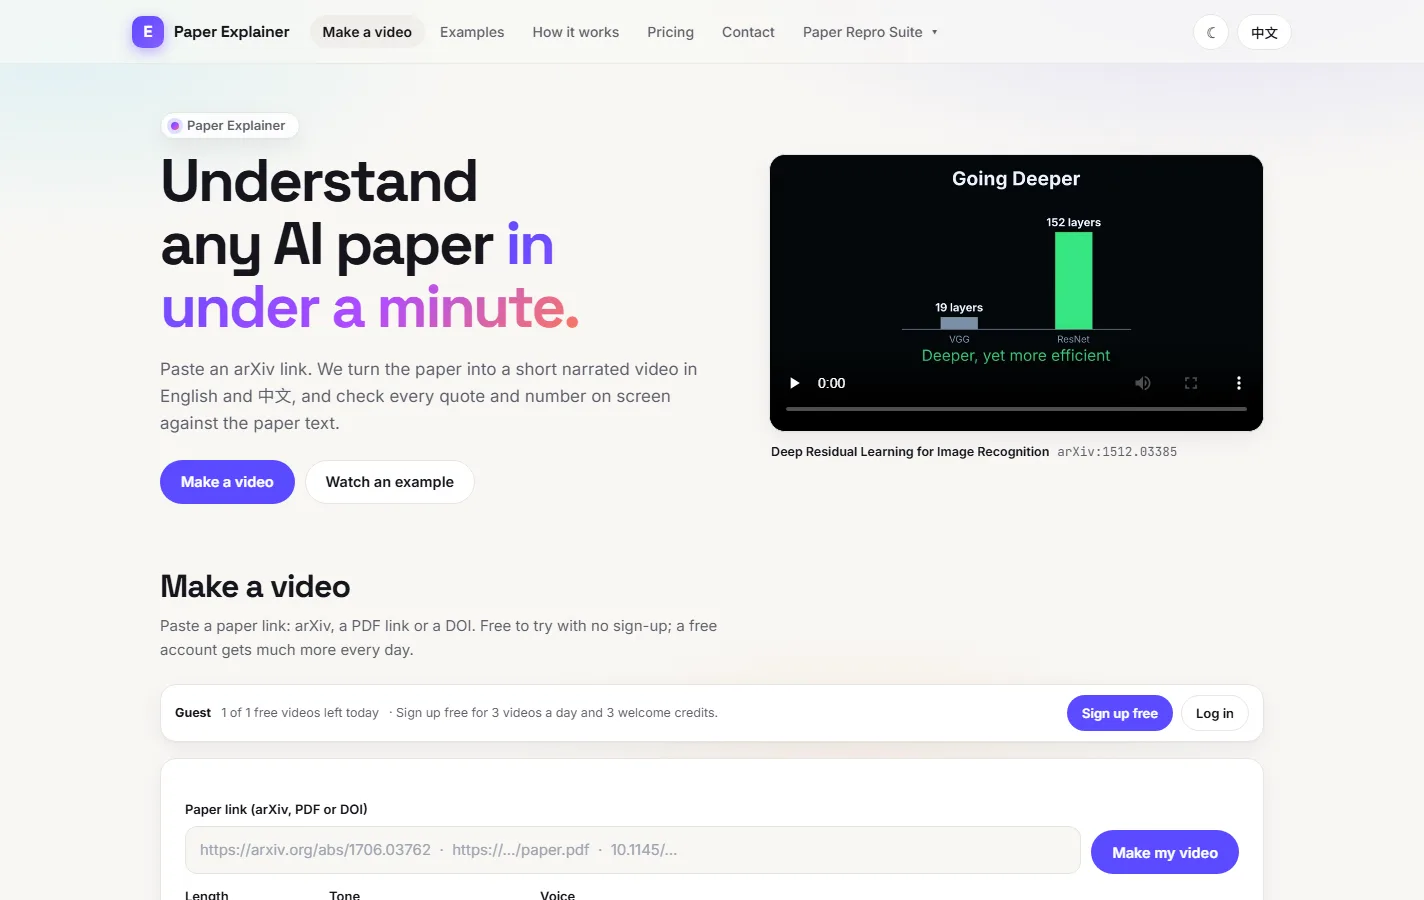
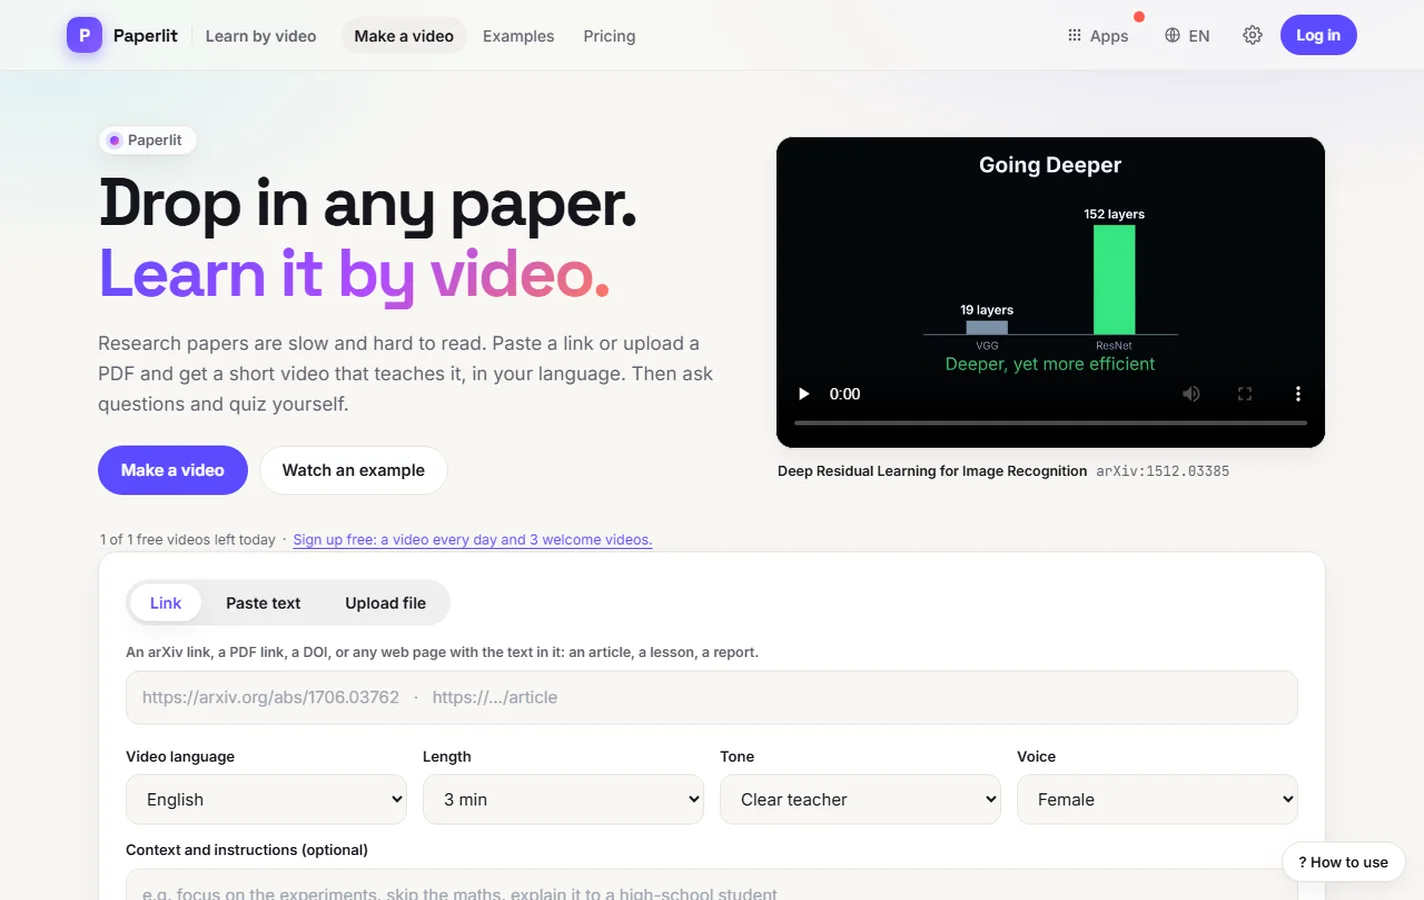
fix: vi/id leftovers, mobile quiz sheet and tap targets, footer, screenshots (#32)
* fix: Vietnamese and Indonesian for FAQ, footer and call to action; mobile tap targets, quiz sheet on phones, password fields, fresh hub screenshots

* feat: copyright line, release notes, merge main

---------

diff --git a/app/frontend/src/components/SuiteFooter.tsx b/app/frontend/src/components/SuiteFooter.tsx
@@ -1,22 +1,23 @@
 import { useState, type ReactNode } from 'react';
 import { Link } from 'react-router-dom';
-import { SUITE, EXPLAINER, type Lang } from './SuiteTopBar';
+import { PRODUCTS, type Lang } from './SuiteTopBar';
 import './suite-topbar.css';
 
 const T = {
-  en: { apps: 'Apps', learn: 'Learn', check: 'Check', about: 'About', tag: 'Read a paper, then check its numbers.', made: 'Made at Tsinghua SIGS, AIID capstone, Group 1.', note: 'Results are produced by AI agents. Check the quoted sources before you rely on them.', top: 'Back to top', faq: 'Frequently asked', open: 'opens in the same tab' },
-  zh: { apps: '应用', learn: '理解', check: '核验', about: '关于', tag: '读懂论文，再核验它的数字。', made: '清华深圳国际研究生院 AIID 课程项目，第 1 组。', note: '结果由 AI 智能体生成。引用前请核对原文出处。', top: '回到顶部', faq: '常见问题', open: '在新标签页打开' },
+  en: { apps: 'Paperlit', about: 'About', home: 'Home', tag: 'Turn papers into videos, read with citations, check the numbers.', note: 'Results are produced by AI agents. Check the quoted sources before you rely on them.', top: 'Back to top', faq: 'Frequently asked', open: 'opens in the same tab', terms: 'Terms', privacy: 'Privacy' },
+  zh: { apps: 'Paperlit', about: '关于', home: '首页', tag: '把论文变成视频，带引用地阅读，核验它的数字。', note: '结果由 AI 智能体生成。引用前请核对原文出处。', top: '回到顶部', faq: '常见问题', open: '在新标签页打开', terms: '条款', privacy: '隐私' },
+  vi: { apps: 'Paperlit', about: 'Giới thiệu', home: 'Trang chủ', tag: 'Biến bài báo thành video, đọc kèm trích dẫn, kiểm chứng số liệu.', note: 'Kết quả do tác tử AI tạo ra. Hãy kiểm tra các nguồn được trích dẫn trước khi dựa vào.', top: 'Lên đầu trang', faq: 'Câu hỏi thường gặp', open: 'mở trong cùng tab', terms: 'Điều khoản', privacy: 'Quyền riêng tư' },
+  id: { apps: 'Paperlit', about: 'Tentang', home: 'Beranda', tag: 'Ubah makalah menjadi video, baca dengan sitasi, periksa angkanya.', note: 'Hasil dibuat oleh agen AI. Periksa sumber yang dikutip sebelum Anda mengandalkannya.', top: 'Kembali ke atas', faq: 'Pertanyaan yang sering diajukan', open: 'dibuka di tab yang sama', terms: 'Ketentuan', privacy: 'Privasi' },
 } as const;
 
 /** Four-column footer shared by every app of the suite. */
 export function SuiteFooter({ lang, appId, note }: { lang: Lang; appId: string; note?: string }) {
   const t = T[lang];
-  const pick = (ids: string[]) => SUITE.filter((s) => ids.includes(s.id));
-  const col = (title: string, items: { label: string; href: string; id: string }[]) => (
+  const col = (title: string, items: { label: string; href: string; id: string; ids?: string[] }[]) => (
     <nav className="sft-col" aria-label={title}>
       <h2>{title}</h2>
       {items.map((s) => (
-        <a key={s.id} href={s.href} aria-current={s.id === appId ? 'page' : undefined} className={s.id === appId ? 'on' : ''}>
+        <a key={s.id} href={s.href} aria-current={s.ids?.includes(appId) ? 'page' : undefined} className={s.ids?.includes(appId) ? 'on' : ''}>
           {s.label}
           <span className="sr-only"> ({t.open})</span>
         </a>
@@ -31,12 +32,12 @@ export function SuiteFooter({ lang, appId, note }: { lang: Lang; appId: string; 
           <b>Paperlit</b>
           <p>{t.tag}</p>
         </div>
-        {col(t.learn, [{ id: 'explainer', label: 'Paper Explainer', href: EXPLAINER }, ...pick(['companion'])])}
-        {col(t.check, pick(['agent', 'lite', 'desk', 'indexboard']))}
-        {col(t.about, pick(['bench', 'hub']))}
+        {col(t.apps, PRODUCTS.map((pr) => ({ id: pr.id, ids: pr.ids, label: pr.n[lang] ?? pr.n.en, href: pr.href })))}
+        {col(t.about, [{ id: 'hub', label: t.home, href: 'https://bryan273.github.io/repro-suite/hub/' }, { id: 'terms', label: t.terms, href: 'https://bryan273.github.io/repro-suite/explainer/terms' }, { id: 'privacy', label: t.privacy, href: 'https://bryan273.github.io/repro-suite/explainer/privacy' }])}
       </div>
       <div className="sft-bar">
         <span>{note ?? t.note}</span>
+        <span className="sft-copy">&copy; {new Date().getFullYear()} Paperlit. {({ en: 'All rights reserved.', zh: '版权所有。', vi: 'Bảo lưu mọi quyền.', id: 'Hak cipta dilindungi.' } as Record<string, string>)[lang] ?? 'All rights reserved.'}</span>
         <a href="#top" onClick={(e) => { e.preventDefault(); window.scrollTo({ top: 0, behavior: 'smooth' }); }}>{t.top} ↑</a>
       </div>
     </footer>

diff --git a/app/frontend/src/pages/Index.tsx b/app/frontend/src/pages/Index.tsx
@@ -151,6 +151,12 @@ function read<T extends string>(key: string, allowed: readonly T[], fallback: T)
   }
 }
 
+const FT: Record<Lang, { explore: string; examples: string; pricing: string; about: string; terms: string; privacy: string; contact: string; rights: string }> = {
+  en: { explore: 'Explore', examples: 'Examples', pricing: 'Pricing', about: 'About', terms: 'Terms', privacy: 'Privacy', contact: 'Contact', rights: 'All rights reserved.' },
+  zh: { explore: '探索', examples: '示例', pricing: '价格', about: '关于', terms: '条款', privacy: '隐私', contact: '联系我们', rights: '版权所有。' },
+  vi: { explore: 'Khám phá', examples: 'Ví dụ', pricing: 'Bảng giá', about: 'Giới thiệu', terms: 'Điều khoản', privacy: 'Quyền riêng tư', contact: 'Liên hệ', rights: 'Bảo lưu mọi quyền.' },
+  id: { explore: 'Jelajahi', examples: 'Contoh', pricing: 'Harga', about: 'Tentang', terms: 'Ketentuan', privacy: 'Privasi', contact: 'Kontak', rights: 'Hak cipta dilindungi.' },
+};
 const HREF = [URLS.explainer, URLS.reading, URLS.repro];
 const SHOT_KEYS = [SHOTS.explainer, SHOTS.reading, SHOTS.repro];
 const NAMES = ['Explain', 'Read', 'Reproduce'];
@@ -273,15 +279,16 @@ export default function Index() {
             <p className="mt-1 max-w-[30ch]">{t.title}</p>
           </div>
           {[
-            { h: 'Apps', l: [['Learn by video', HREF[0]], ['Read and ask', HREF[1]], ['Check the result', HREF[2]]] },
-            { h: 'Explore', l: [['Examples', `${HREF[0]}#examples`], ['Pricing', `${HREF[0]}#pricing`], ['FAQ', '#faq']] },
-            { h: 'Paperlit', l: [['Terms', `${HREF[0]}/terms`], ['Privacy', `${HREF[0]}/privacy`], ['Contact', `${HREF[0]}#contact`]] },
+            { h: 'Paperlit', l: [[t.products[0].name, HREF[0]], [t.products[1].name, HREF[1]], [t.products[2].name, HREF[2]]] },
+            { h: FT[lang].explore, l: [[FT[lang].examples, `${HREF[0]}#examples`], [FT[lang].pricing, `${HREF[0]}#pricing`], ['FAQ', '#faq']] },
+            { h: FT[lang].about, l: [[FT[lang].terms, `${HREF[0]}/terms`], [FT[lang].privacy, `${HREF[0]}/privacy`], [FT[lang].contact, `${HREF[0]}#contact`]] },
           ].map((c) => (
             <nav key={c.h} className="grid content-start gap-2" aria-label={String(c.h)}>
               <p className="text-[12px] font-semibold uppercase tracking-wide" style={{ color: 'inherit' }}>{c.h}</p>
-              {c.l.map(([n, h]) => <a key={n} href={h} className="no-underline hover:underline" style={{ color: 'inherit' }}>{n}</a>)}
+              {c.l.map(([n, h]) => <a key={n} href={h} className="inline-block py-1.5 no-underline hover:underline" style={{ color: 'inherit' }}>{n}</a>)}
             </nav>
           ))}
+          <p className="sm:col-span-4 border-t border-[color:var(--line)] pt-5 text-[13px]" style={{ color: 'inherit' }}>&copy; {new Date().getFullYear()} Paperlit. {FT[lang].rights}</p>
         </footer>
       </main>
     </div>

diff --git a/app/frontend/src/pages/Console.tsx b/app/frontend/src/pages/Console.tsx
@@ -176,7 +176,9 @@ const css = `
 .cs-tally{position:relative;display:flex;justify-content:space-between;gap:10px;padding:7px 14px;font-size:13.5px}.cs-tally i{position:absolute;left:0;bottom:0;height:3px;background:var(--accent);opacity:.55}.cs-tally b{font-variant-numeric:tabular-nums}
 .cs-chart-h{display:flex;justify-content:space-between;align-items:center;gap:12px;flex-wrap:wrap;margin:28px 0 10px}.cs-filters{display:flex;gap:6px;flex-wrap:wrap;align-items:center}.cs-chip{border:1px solid var(--line);background:var(--card);color:var(--text);border-radius:999px;padding:4px 11px;font:600 12px inherit;cursor:pointer}.cs-chip.on{background:var(--accent);border-color:var(--accent);color:#fff}.cs-chip.chk{display:inline-flex;gap:5px;align-items:center}.cs-chip.chk input{margin:0}.cs-sep{width:1px;height:18px;background:var(--line);margin:0 4px}.cs-pager{display:flex;gap:6px;align-items:center;justify-content:flex-end;padding:8px 12px;font-size:12.5px}
 .cs-vers{display:grid}.cs-ver{border-top:1px solid var(--line);padding:10px 14px}.cs-ver:first-child{border-top:0}.cs-ver summary{display:flex;gap:12px;align-items:baseline;flex-wrap:wrap;cursor:pointer;font-size:14px}.cs-vtag{background:var(--accent);color:#fff;border-radius:999px;padding:1px 9px;font:700 12px inherit}.cs-rel{margin:10px 0 4px;padding-left:0;list-style:none;display:grid;gap:12px}.cs-rel-h{display:flex;gap:12px;align-items:baseline;font-size:13px}.cs-rel ul{margin:4px 0 0 18px;padding:0;font-size:13px;color:var(--muted,#666)}
+@media (pointer:coarse){.cs-btn.sm,.cs-chip,.cs-n{min-height:38px}}
 .cs-modal{position:fixed;inset:0;z-index:100;background:rgba(8,10,24,.6);display:grid;place-items:center;padding:16px}.cs-modal-box{width:min(920px,100%);max-height:92vh;display:grid;grid-template-rows:auto 1fr auto;background:var(--card);border-radius:16px;overflow:hidden;box-shadow:0 30px 70px -20px rgba(0,0,0,.55)}.cs-modal-h{display:flex;justify-content:space-between;gap:12px;align-items:flex-start;padding:14px 18px;border-bottom:1px solid var(--line)}.cs-modal-view{overflow:auto;background:rgba(0,0,0,.04);display:grid;place-items:center;min-height:240px}.cs-modal-view img{max-width:100%;max-height:68vh;display:block}.cs-modal-view iframe{width:100%;height:68vh;border:0}.cs-modal-f{display:flex;gap:10px;flex-wrap:wrap;padding:12px 18px;border-top:1px solid var(--line);align-items:center}\n.cs-btn.sm{padding:4px 10px;font-size:12px}
+.cs-btn.sm{padding:4px 10px;font-size:12px}
 .cs-tot{display:grid;grid-template-columns:repeat(auto-fit,minmax(150px,1fr));gap:12px;margin-top:20px}
 .cs-tile{background:var(--card);border:1px solid var(--line);border-radius:14px;padding:14px 16px}
 .cs-tile span{display:block;font-size:12px;color:var(--text2)}

diff --git a/app/frontend/src/components/SuiteTopBar.tsx b/app/frontend/src/components/SuiteTopBar.tsx
@@ -43,7 +43,7 @@ const R = ROOT;
 type L4 = { en: string; zh: string; vi: string; id: string };
 type Product = { id: string; ids: string[]; href: string; mark: string; n: L4; d: L4 };
 /** The suite as three products, not eight apps: make a video, read a paper, check whether its result holds. */
-const PRODUCTS: Product[] = [
+export const PRODUCTS: Product[] = [
   { id: 'explain', ids: ['explainer'], href: `${R}/explainer/`, mark: '▶',
     n: { en: 'Learn by video', zh: '看视频学论文', vi: 'Học qua video', id: 'Belajar lewat video' },
     d: { en: 'Drop in a paper or PDF. Get a short video that teaches it.', zh: '丢进论文或 PDF，得到讲解它的短视频。', vi: 'Thả bài báo hoặc PDF vào. Nhận video ngắn giảng giải.', id: 'Masukkan makalah atau PDF. Dapatkan video singkat yang mengajarkannya.' } },
